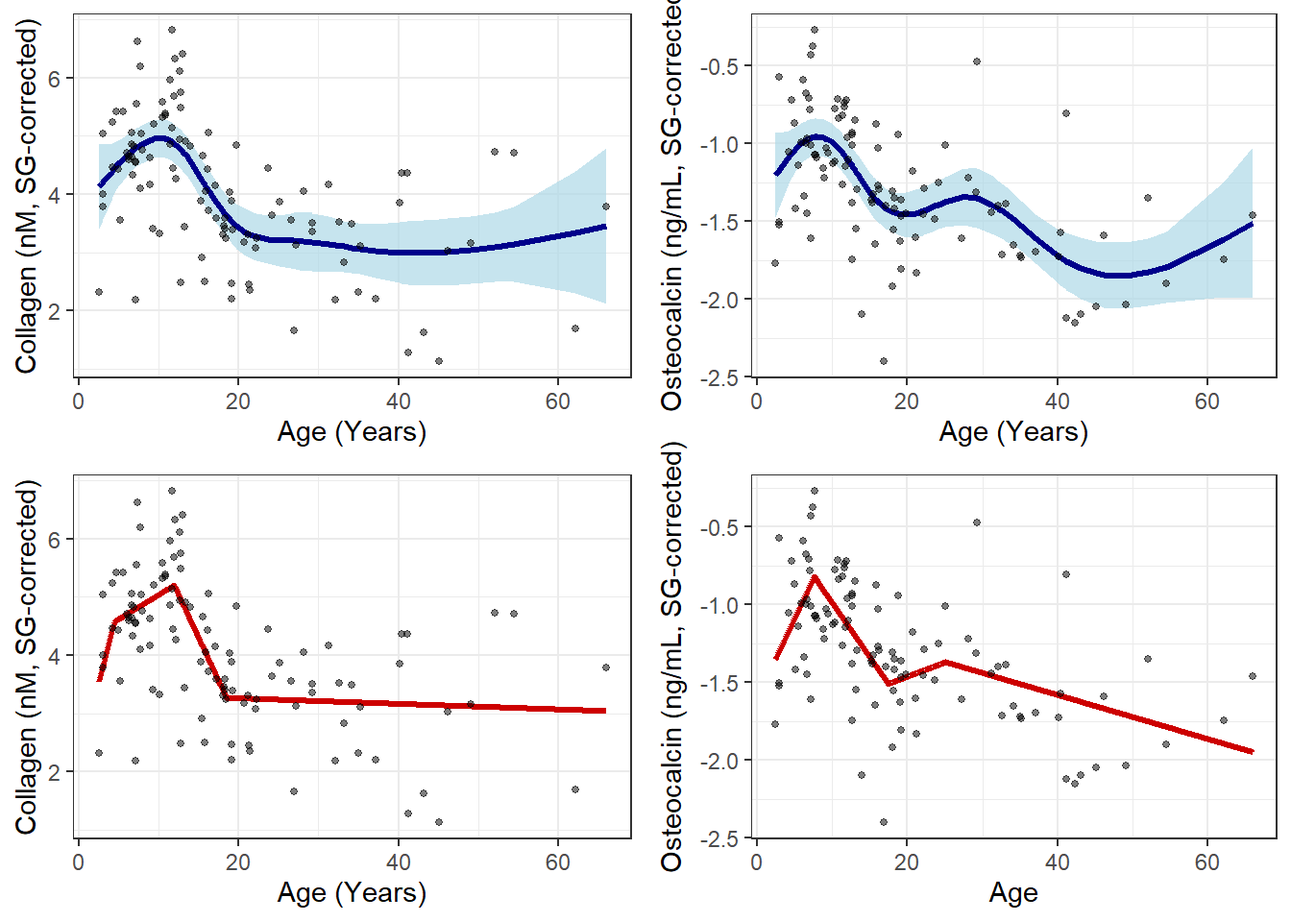
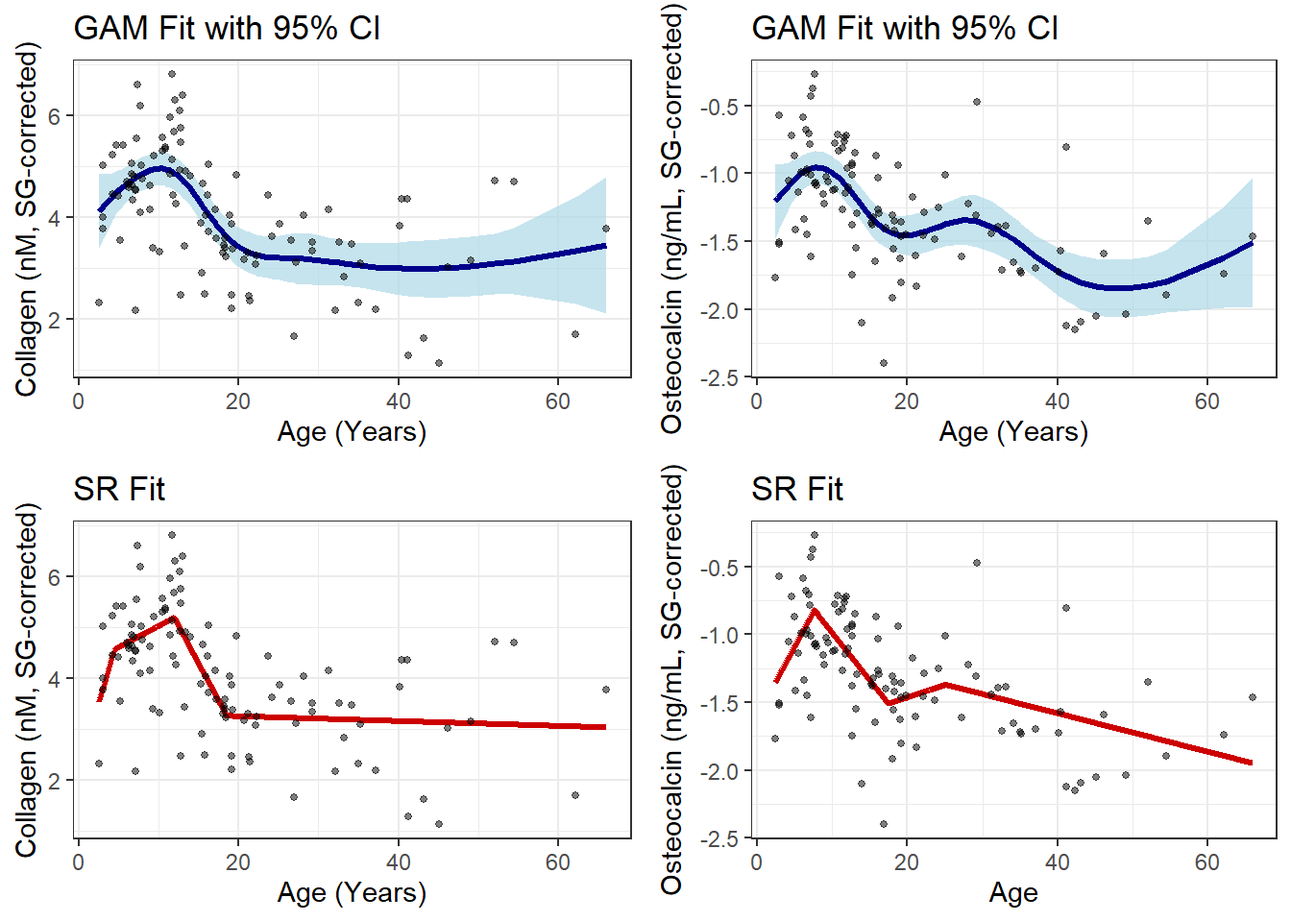
added figures from source paper

diff --git a/recreation.html b/recreation.html
@@ -436,70 +436,74 @@ OsteocalcinF  numeric,0</code></pre>
 <span id="cb28-9"><a href="#cb28-9" aria-hidden="true" tabindex="-1"></a>  <span class="fu">geom_point</span>(<span class="fu">aes</span>(<span class="at">y =</span> c_conT), <span class="at">alpha =</span> <span class="fl">0.5</span>, <span class="at">size =</span> <span class="dv">1</span>) <span class="sc">+</span></span>
 <span id="cb28-10"><a href="#cb28-10" aria-hidden="true" tabindex="-1"></a>  <span class="fu">labs</span>(</span>
 <span id="cb28-11"><a href="#cb28-11" aria-hidden="true" tabindex="-1"></a>    <span class="at">x =</span> <span class="st">"Age (Years)"</span>,</span>
-<span id="cb28-12"><a href="#cb28-12" aria-hidden="true" tabindex="-1"></a>    <span class="at">y =</span> <span class="st">"Collagen (nM, SG-corrected)"</span></span>
-<span id="cb28-13"><a href="#cb28-13" aria-hidden="true" tabindex="-1"></a>  ) <span class="sc">+</span></span>
-<span id="cb28-14"><a href="#cb28-14" aria-hidden="true" tabindex="-1"></a>  <span class="fu">theme</span>(</span>
-<span id="cb28-15"><a href="#cb28-15" aria-hidden="true" tabindex="-1"></a>    <span class="at">axis.title =</span> <span class="fu">element_text</span>(<span class="at">size =</span> <span class="dv">6</span>),</span>
-<span id="cb28-16"><a href="#cb28-16" aria-hidden="true" tabindex="-1"></a>    <span class="at">axis.text =</span> <span class="fu">element_text</span>(<span class="at">size =</span> <span class="dv">4</span>)</span>
-<span id="cb28-17"><a href="#cb28-17" aria-hidden="true" tabindex="-1"></a>  ) <span class="sc">+</span></span>
-<span id="cb28-18"><a href="#cb28-18" aria-hidden="true" tabindex="-1"></a>  <span class="fu">theme_bw</span>()</span>
-<span id="cb28-19"><a href="#cb28-19" aria-hidden="true" tabindex="-1"></a></span>
-<span id="cb28-20"><a href="#cb28-20" aria-hidden="true" tabindex="-1"></a>fitted_df <span class="ot">&lt;-</span> <span class="fu">fitted_values</span>(ogam_mf, <span class="at">data =</span> ostc_data, <span class="at">include_data =</span> <span class="cn">TRUE</span>, <span class="at">scale =</span> <span class="st">"response"</span>)</span>
-<span id="cb28-21"><a href="#cb28-21" aria-hidden="true" tabindex="-1"></a></span>
-<span id="cb28-22"><a href="#cb28-22" aria-hidden="true" tabindex="-1"></a>p.ogmf <span class="ot">&lt;-</span> <span class="fu">ggplot</span>(fitted_df, <span class="fu">aes</span>(<span class="at">x =</span> mean_age, <span class="at">y =</span> .fitted)) <span class="sc">+</span></span>
-<span id="cb28-23"><a href="#cb28-23" aria-hidden="true" tabindex="-1"></a>  <span class="fu">geom_ribbon</span>(<span class="fu">aes</span>(<span class="at">ymin =</span> .lower_ci, <span class="at">ymax =</span> .upper_ci), <span class="at">fill =</span> <span class="st">"lightblue"</span>, <span class="at">alpha =</span> <span class="fl">0.7</span>) <span class="sc">+</span></span>
-<span id="cb28-24"><a href="#cb28-24" aria-hidden="true" tabindex="-1"></a>  <span class="fu">geom_line</span>(<span class="at">color =</span> <span class="st">"blue4"</span>, <span class="at">linewidth =</span> <span class="fl">1.2</span>) <span class="sc">+</span></span>
-<span id="cb28-25"><a href="#cb28-25" aria-hidden="true" tabindex="-1"></a>  <span class="fu">geom_point</span>(<span class="fu">aes</span>(<span class="at">y =</span> o_conT), <span class="at">alpha =</span> <span class="fl">0.5</span>, <span class="at">size =</span> <span class="dv">1</span>) <span class="sc">+</span></span>
-<span id="cb28-26"><a href="#cb28-26" aria-hidden="true" tabindex="-1"></a>  <span class="fu">labs</span>(</span>
-<span id="cb28-27"><a href="#cb28-27" aria-hidden="true" tabindex="-1"></a>    <span class="at">x =</span> <span class="st">"Age (Years)"</span>,</span>
-<span id="cb28-28"><a href="#cb28-28" aria-hidden="true" tabindex="-1"></a>    <span class="at">y =</span> <span class="st">"Osteocalcin (ng/mL, SG-corrected)"</span></span>
-<span id="cb28-29"><a href="#cb28-29" aria-hidden="true" tabindex="-1"></a>  ) <span class="sc">+</span></span>
-<span id="cb28-30"><a href="#cb28-30" aria-hidden="true" tabindex="-1"></a>  <span class="fu">theme</span>(</span>
-<span id="cb28-31"><a href="#cb28-31" aria-hidden="true" tabindex="-1"></a>    <span class="at">axis.title =</span> <span class="fu">element_text</span>(<span class="at">size =</span> <span class="dv">6</span>),</span>
-<span id="cb28-32"><a href="#cb28-32" aria-hidden="true" tabindex="-1"></a>    <span class="at">axis.text =</span> <span class="fu">element_text</span>(<span class="at">size =</span> <span class="dv">4</span>)</span>
-<span id="cb28-33"><a href="#cb28-33" aria-hidden="true" tabindex="-1"></a>  ) <span class="sc">+</span></span>
-<span id="cb28-34"><a href="#cb28-34" aria-hidden="true" tabindex="-1"></a>  <span class="fu">theme_bw</span>()</span>
-<span id="cb28-35"><a href="#cb28-35" aria-hidden="true" tabindex="-1"></a></span>
-<span id="cb28-36"><a href="#cb28-36" aria-hidden="true" tabindex="-1"></a><span class="co"># SRs</span></span>
+<span id="cb28-12"><a href="#cb28-12" aria-hidden="true" tabindex="-1"></a>    <span class="at">y =</span> <span class="st">"Collagen (nM, SG-corrected)"</span>,</span>
+<span id="cb28-13"><a href="#cb28-13" aria-hidden="true" tabindex="-1"></a>    <span class="at">title =</span> <span class="st">"GAM Fit with 95% CI"</span></span>
+<span id="cb28-14"><a href="#cb28-14" aria-hidden="true" tabindex="-1"></a>  ) <span class="sc">+</span></span>
+<span id="cb28-15"><a href="#cb28-15" aria-hidden="true" tabindex="-1"></a>  <span class="fu">theme</span>(</span>
+<span id="cb28-16"><a href="#cb28-16" aria-hidden="true" tabindex="-1"></a>    <span class="at">axis.title =</span> <span class="fu">element_text</span>(<span class="at">size =</span> <span class="dv">6</span>),</span>
+<span id="cb28-17"><a href="#cb28-17" aria-hidden="true" tabindex="-1"></a>    <span class="at">axis.text =</span> <span class="fu">element_text</span>(<span class="at">size =</span> <span class="dv">4</span>)</span>
+<span id="cb28-18"><a href="#cb28-18" aria-hidden="true" tabindex="-1"></a>  ) <span class="sc">+</span></span>
+<span id="cb28-19"><a href="#cb28-19" aria-hidden="true" tabindex="-1"></a>  <span class="fu">theme_bw</span>()</span>
+<span id="cb28-20"><a href="#cb28-20" aria-hidden="true" tabindex="-1"></a></span>
+<span id="cb28-21"><a href="#cb28-21" aria-hidden="true" tabindex="-1"></a>fitted_df <span class="ot">&lt;-</span> <span class="fu">fitted_values</span>(ogam_mf, <span class="at">data =</span> ostc_data, <span class="at">include_data =</span> <span class="cn">TRUE</span>, <span class="at">scale =</span> <span class="st">"response"</span>)</span>
+<span id="cb28-22"><a href="#cb28-22" aria-hidden="true" tabindex="-1"></a></span>
+<span id="cb28-23"><a href="#cb28-23" aria-hidden="true" tabindex="-1"></a>p.ogmf <span class="ot">&lt;-</span> <span class="fu">ggplot</span>(fitted_df, <span class="fu">aes</span>(<span class="at">x =</span> mean_age, <span class="at">y =</span> .fitted)) <span class="sc">+</span></span>
+<span id="cb28-24"><a href="#cb28-24" aria-hidden="true" tabindex="-1"></a>  <span class="fu">geom_ribbon</span>(<span class="fu">aes</span>(<span class="at">ymin =</span> .lower_ci, <span class="at">ymax =</span> .upper_ci), <span class="at">fill =</span> <span class="st">"lightblue"</span>, <span class="at">alpha =</span> <span class="fl">0.7</span>) <span class="sc">+</span></span>
+<span id="cb28-25"><a href="#cb28-25" aria-hidden="true" tabindex="-1"></a>  <span class="fu">geom_line</span>(<span class="at">color =</span> <span class="st">"blue4"</span>, <span class="at">linewidth =</span> <span class="fl">1.2</span>) <span class="sc">+</span></span>
+<span id="cb28-26"><a href="#cb28-26" aria-hidden="true" tabindex="-1"></a>  <span class="fu">geom_point</span>(<span class="fu">aes</span>(<span class="at">y =</span> o_conT), <span class="at">alpha =</span> <span class="fl">0.5</span>, <span class="at">size =</span> <span class="dv">1</span>) <span class="sc">+</span></span>
+<span id="cb28-27"><a href="#cb28-27" aria-hidden="true" tabindex="-1"></a>  <span class="fu">labs</span>(</span>
+<span id="cb28-28"><a href="#cb28-28" aria-hidden="true" tabindex="-1"></a>    <span class="at">x =</span> <span class="st">"Age (Years)"</span>,</span>
+<span id="cb28-29"><a href="#cb28-29" aria-hidden="true" tabindex="-1"></a>    <span class="at">y =</span> <span class="st">"Osteocalcin (ng/mL, SG-corrected)"</span>,</span>
+<span id="cb28-30"><a href="#cb28-30" aria-hidden="true" tabindex="-1"></a>    <span class="at">title =</span> <span class="st">"GAM Fit with 95% CI"</span></span>
+<span id="cb28-31"><a href="#cb28-31" aria-hidden="true" tabindex="-1"></a>  ) <span class="sc">+</span></span>
+<span id="cb28-32"><a href="#cb28-32" aria-hidden="true" tabindex="-1"></a>  <span class="fu">theme</span>(</span>
+<span id="cb28-33"><a href="#cb28-33" aria-hidden="true" tabindex="-1"></a>    <span class="at">axis.title =</span> <span class="fu">element_text</span>(<span class="at">size =</span> <span class="dv">6</span>),</span>
+<span id="cb28-34"><a href="#cb28-34" aria-hidden="true" tabindex="-1"></a>    <span class="at">axis.text =</span> <span class="fu">element_text</span>(<span class="at">size =</span> <span class="dv">4</span>)</span>
+<span id="cb28-35"><a href="#cb28-35" aria-hidden="true" tabindex="-1"></a>  ) <span class="sc">+</span></span>
+<span id="cb28-36"><a href="#cb28-36" aria-hidden="true" tabindex="-1"></a>  <span class="fu">theme_bw</span>()</span>
 <span id="cb28-37"><a href="#cb28-37" aria-hidden="true" tabindex="-1"></a></span>
-<span id="cb28-38"><a href="#cb28-38" aria-hidden="true" tabindex="-1"></a><span class="co"># generate prediction data</span></span>
-<span id="cb28-39"><a href="#cb28-39" aria-hidden="true" tabindex="-1"></a>newdata <span class="ot">&lt;-</span> <span class="fu">data.frame</span>(<span class="at">mean_age =</span> <span class="fu">seq</span>(<span class="fu">min</span>(coll_data<span class="sc">$</span>mean_age),</span>
-<span id="cb28-40"><a href="#cb28-40" aria-hidden="true" tabindex="-1"></a>                                     <span class="fu">max</span>(coll_data<span class="sc">$</span>mean_age),</span>
-<span id="cb28-41"><a href="#cb28-41" aria-hidden="true" tabindex="-1"></a>                                     <span class="at">length.out =</span> <span class="dv">1000</span>))</span>
-<span id="cb28-42"><a href="#cb28-42" aria-hidden="true" tabindex="-1"></a>b <span class="ot">&lt;-</span> <span class="fu">predict</span>(csr_mf, <span class="at">newdata =</span> newdata, <span class="at">interval =</span> <span class="st">"confidence"</span>)</span>
-<span id="cb28-43"><a href="#cb28-43" aria-hidden="true" tabindex="-1"></a>preds <span class="ot">&lt;-</span> <span class="fu">cbind</span>(newdata, <span class="fu">as.data.frame</span>(b))</span>
-<span id="cb28-44"><a href="#cb28-44" aria-hidden="true" tabindex="-1"></a></span>
-<span id="cb28-45"><a href="#cb28-45" aria-hidden="true" tabindex="-1"></a>p.csmf <span class="ot">&lt;-</span> <span class="fu">ggplot</span>(coll_data, <span class="fu">aes</span>(<span class="at">x =</span> mean_age, <span class="at">y =</span> c_conT)) <span class="sc">+</span></span>
-<span id="cb28-46"><a href="#cb28-46" aria-hidden="true" tabindex="-1"></a>  <span class="fu">geom_line</span>(<span class="at">data =</span> preds, <span class="fu">aes</span>(<span class="at">y =</span> fit), <span class="at">color =</span> <span class="st">"red3"</span>, <span class="at">linewidth =</span> <span class="fl">1.2</span>) <span class="sc">+</span></span>
-<span id="cb28-47"><a href="#cb28-47" aria-hidden="true" tabindex="-1"></a>  <span class="fu">geom_point</span>(<span class="at">alpha =</span> <span class="fl">0.5</span>, <span class="at">size =</span> <span class="dv">1</span>) <span class="sc">+</span></span>
-<span id="cb28-48"><a href="#cb28-48" aria-hidden="true" tabindex="-1"></a>  <span class="fu">labs</span>(</span>
-<span id="cb28-49"><a href="#cb28-49" aria-hidden="true" tabindex="-1"></a>    <span class="at">x =</span> <span class="st">"Age (Years)"</span>,</span>
-<span id="cb28-50"><a href="#cb28-50" aria-hidden="true" tabindex="-1"></a>    <span class="at">y =</span> <span class="st">"Collagen (nM, SG-corrected)"</span>,</span>
-<span id="cb28-51"><a href="#cb28-51" aria-hidden="true" tabindex="-1"></a>  ) <span class="sc">+</span></span>
-<span id="cb28-52"><a href="#cb28-52" aria-hidden="true" tabindex="-1"></a>  <span class="fu">theme</span>(</span>
-<span id="cb28-53"><a href="#cb28-53" aria-hidden="true" tabindex="-1"></a>    <span class="at">axis.title =</span> <span class="fu">element_text</span>(<span class="at">size =</span> <span class="dv">6</span>),</span>
-<span id="cb28-54"><a href="#cb28-54" aria-hidden="true" tabindex="-1"></a>    <span class="at">axis.text =</span> <span class="fu">element_text</span>(<span class="at">size =</span> <span class="dv">4</span>)</span>
-<span id="cb28-55"><a href="#cb28-55" aria-hidden="true" tabindex="-1"></a>  ) <span class="sc">+</span></span>
-<span id="cb28-56"><a href="#cb28-56" aria-hidden="true" tabindex="-1"></a>  <span class="fu">theme_bw</span>()</span>
-<span id="cb28-57"><a href="#cb28-57" aria-hidden="true" tabindex="-1"></a></span>
-<span id="cb28-58"><a href="#cb28-58" aria-hidden="true" tabindex="-1"></a>b <span class="ot">&lt;-</span> <span class="fu">predict</span>(osr_mf, <span class="at">newdata =</span> newdata, <span class="at">interval =</span> <span class="st">"confidence"</span>)</span>
-<span id="cb28-59"><a href="#cb28-59" aria-hidden="true" tabindex="-1"></a>preds <span class="ot">&lt;-</span> <span class="fu">cbind</span>(newdata, <span class="fu">as.data.frame</span>(b))</span>
+<span id="cb28-38"><a href="#cb28-38" aria-hidden="true" tabindex="-1"></a><span class="co"># SRs</span></span>
+<span id="cb28-39"><a href="#cb28-39" aria-hidden="true" tabindex="-1"></a></span>
+<span id="cb28-40"><a href="#cb28-40" aria-hidden="true" tabindex="-1"></a><span class="co"># generate prediction data</span></span>
+<span id="cb28-41"><a href="#cb28-41" aria-hidden="true" tabindex="-1"></a>newdata <span class="ot">&lt;-</span> <span class="fu">data.frame</span>(<span class="at">mean_age =</span> <span class="fu">seq</span>(<span class="fu">min</span>(coll_data<span class="sc">$</span>mean_age),</span>
+<span id="cb28-42"><a href="#cb28-42" aria-hidden="true" tabindex="-1"></a>                                     <span class="fu">max</span>(coll_data<span class="sc">$</span>mean_age),</span>
+<span id="cb28-43"><a href="#cb28-43" aria-hidden="true" tabindex="-1"></a>                                     <span class="at">length.out =</span> <span class="dv">1000</span>))</span>
+<span id="cb28-44"><a href="#cb28-44" aria-hidden="true" tabindex="-1"></a>b <span class="ot">&lt;-</span> <span class="fu">predict</span>(csr_mf, <span class="at">newdata =</span> newdata, <span class="at">interval =</span> <span class="st">"confidence"</span>)</span>
+<span id="cb28-45"><a href="#cb28-45" aria-hidden="true" tabindex="-1"></a>preds <span class="ot">&lt;-</span> <span class="fu">cbind</span>(newdata, <span class="fu">as.data.frame</span>(b))</span>
+<span id="cb28-46"><a href="#cb28-46" aria-hidden="true" tabindex="-1"></a></span>
+<span id="cb28-47"><a href="#cb28-47" aria-hidden="true" tabindex="-1"></a>p.csmf <span class="ot">&lt;-</span> <span class="fu">ggplot</span>(coll_data, <span class="fu">aes</span>(<span class="at">x =</span> mean_age, <span class="at">y =</span> c_conT)) <span class="sc">+</span></span>
+<span id="cb28-48"><a href="#cb28-48" aria-hidden="true" tabindex="-1"></a>  <span class="fu">geom_line</span>(<span class="at">data =</span> preds, <span class="fu">aes</span>(<span class="at">y =</span> fit), <span class="at">color =</span> <span class="st">"red3"</span>, <span class="at">linewidth =</span> <span class="fl">1.2</span>) <span class="sc">+</span></span>
+<span id="cb28-49"><a href="#cb28-49" aria-hidden="true" tabindex="-1"></a>  <span class="fu">geom_point</span>(<span class="at">alpha =</span> <span class="fl">0.5</span>, <span class="at">size =</span> <span class="dv">1</span>) <span class="sc">+</span></span>
+<span id="cb28-50"><a href="#cb28-50" aria-hidden="true" tabindex="-1"></a>  <span class="fu">labs</span>(</span>
+<span id="cb28-51"><a href="#cb28-51" aria-hidden="true" tabindex="-1"></a>    <span class="at">x =</span> <span class="st">"Age (Years)"</span>,</span>
+<span id="cb28-52"><a href="#cb28-52" aria-hidden="true" tabindex="-1"></a>    <span class="at">y =</span> <span class="st">"Collagen (nM, SG-corrected)"</span>,</span>
+<span id="cb28-53"><a href="#cb28-53" aria-hidden="true" tabindex="-1"></a>    <span class="at">title =</span> <span class="st">"SR Fit"</span></span>
+<span id="cb28-54"><a href="#cb28-54" aria-hidden="true" tabindex="-1"></a>  ) <span class="sc">+</span></span>
+<span id="cb28-55"><a href="#cb28-55" aria-hidden="true" tabindex="-1"></a>  <span class="fu">theme</span>(</span>
+<span id="cb28-56"><a href="#cb28-56" aria-hidden="true" tabindex="-1"></a>    <span class="at">axis.title =</span> <span class="fu">element_text</span>(<span class="at">size =</span> <span class="dv">6</span>),</span>
+<span id="cb28-57"><a href="#cb28-57" aria-hidden="true" tabindex="-1"></a>    <span class="at">axis.text =</span> <span class="fu">element_text</span>(<span class="at">size =</span> <span class="dv">4</span>)</span>
+<span id="cb28-58"><a href="#cb28-58" aria-hidden="true" tabindex="-1"></a>  ) <span class="sc">+</span></span>
+<span id="cb28-59"><a href="#cb28-59" aria-hidden="true" tabindex="-1"></a>  <span class="fu">theme_bw</span>()</span>
 <span id="cb28-60"><a href="#cb28-60" aria-hidden="true" tabindex="-1"></a></span>
-<span id="cb28-61"><a href="#cb28-61" aria-hidden="true" tabindex="-1"></a>p.osmf <span class="ot">&lt;-</span> <span class="fu">ggplot</span>(fitted_df, <span class="fu">aes</span>(<span class="at">x =</span> mean_age, <span class="at">y =</span> o_conT)) <span class="sc">+</span></span>
-<span id="cb28-62"><a href="#cb28-62" aria-hidden="true" tabindex="-1"></a>  <span class="fu">geom_line</span>(<span class="at">data =</span> preds, <span class="fu">aes</span>(<span class="at">y =</span> fit), <span class="at">color =</span> <span class="st">"red3"</span>, <span class="at">linewidth =</span> <span class="fl">1.2</span>) <span class="sc">+</span></span>
-<span id="cb28-63"><a href="#cb28-63" aria-hidden="true" tabindex="-1"></a>  <span class="fu">geom_point</span>(<span class="at">alpha =</span> <span class="fl">0.5</span>, <span class="at">size =</span> <span class="dv">1</span>) <span class="sc">+</span></span>
-<span id="cb28-64"><a href="#cb28-64" aria-hidden="true" tabindex="-1"></a>  <span class="fu">labs</span>(</span>
-<span id="cb28-65"><a href="#cb28-65" aria-hidden="true" tabindex="-1"></a>    <span class="at">x =</span> <span class="st">"Age"</span>,</span>
-<span id="cb28-66"><a href="#cb28-66" aria-hidden="true" tabindex="-1"></a>    <span class="at">y =</span> <span class="st">"Osteocalcin (ng/mL, SG-corrected)"</span>,</span>
-<span id="cb28-67"><a href="#cb28-67" aria-hidden="true" tabindex="-1"></a>  ) <span class="sc">+</span></span>
-<span id="cb28-68"><a href="#cb28-68" aria-hidden="true" tabindex="-1"></a>  <span class="fu">theme</span>(</span>
-<span id="cb28-69"><a href="#cb28-69" aria-hidden="true" tabindex="-1"></a>    <span class="at">axis.title =</span> <span class="fu">element_text</span>(<span class="at">size =</span> <span class="dv">6</span>),</span>
-<span id="cb28-70"><a href="#cb28-70" aria-hidden="true" tabindex="-1"></a>    <span class="at">axis.text =</span> <span class="fu">element_text</span>(<span class="at">size =</span> <span class="dv">4</span>)</span>
+<span id="cb28-61"><a href="#cb28-61" aria-hidden="true" tabindex="-1"></a>b <span class="ot">&lt;-</span> <span class="fu">predict</span>(osr_mf, <span class="at">newdata =</span> newdata, <span class="at">interval =</span> <span class="st">"confidence"</span>)</span>
+<span id="cb28-62"><a href="#cb28-62" aria-hidden="true" tabindex="-1"></a>preds <span class="ot">&lt;-</span> <span class="fu">cbind</span>(newdata, <span class="fu">as.data.frame</span>(b))</span>
+<span id="cb28-63"><a href="#cb28-63" aria-hidden="true" tabindex="-1"></a></span>
+<span id="cb28-64"><a href="#cb28-64" aria-hidden="true" tabindex="-1"></a>p.osmf <span class="ot">&lt;-</span> <span class="fu">ggplot</span>(fitted_df, <span class="fu">aes</span>(<span class="at">x =</span> mean_age, <span class="at">y =</span> o_conT)) <span class="sc">+</span></span>
+<span id="cb28-65"><a href="#cb28-65" aria-hidden="true" tabindex="-1"></a>  <span class="fu">geom_line</span>(<span class="at">data =</span> preds, <span class="fu">aes</span>(<span class="at">y =</span> fit), <span class="at">color =</span> <span class="st">"red3"</span>, <span class="at">linewidth =</span> <span class="fl">1.2</span>) <span class="sc">+</span></span>
+<span id="cb28-66"><a href="#cb28-66" aria-hidden="true" tabindex="-1"></a>  <span class="fu">geom_point</span>(<span class="at">alpha =</span> <span class="fl">0.5</span>, <span class="at">size =</span> <span class="dv">1</span>) <span class="sc">+</span></span>
+<span id="cb28-67"><a href="#cb28-67" aria-hidden="true" tabindex="-1"></a>  <span class="fu">labs</span>(</span>
+<span id="cb28-68"><a href="#cb28-68" aria-hidden="true" tabindex="-1"></a>    <span class="at">x =</span> <span class="st">"Age"</span>,</span>
+<span id="cb28-69"><a href="#cb28-69" aria-hidden="true" tabindex="-1"></a>    <span class="at">y =</span> <span class="st">"Osteocalcin (ng/mL, SG-corrected)"</span>,</span>
+<span id="cb28-70"><a href="#cb28-70" aria-hidden="true" tabindex="-1"></a>    <span class="at">title =</span> <span class="st">"SR Fit"</span></span>
 <span id="cb28-71"><a href="#cb28-71" aria-hidden="true" tabindex="-1"></a>  ) <span class="sc">+</span></span>
-<span id="cb28-72"><a href="#cb28-72" aria-hidden="true" tabindex="-1"></a>  <span class="fu">theme_bw</span>()</span>
-<span id="cb28-73"><a href="#cb28-73" aria-hidden="true" tabindex="-1"></a></span>
-<span id="cb28-74"><a href="#cb28-74" aria-hidden="true" tabindex="-1"></a></span>
-<span id="cb28-75"><a href="#cb28-75" aria-hidden="true" tabindex="-1"></a><span class="fu">ggarrange</span>(p.cgmf, p.ogmf, p.csmf, p.osmf, <span class="at">nrow =</span> <span class="dv">2</span>, <span class="at">ncol =</span> <span class="dv">2</span>)</span></code><button title="Copy to Clipboard" class="code-copy-button"><i class="bi"></i></button></pre></div>
+<span id="cb28-72"><a href="#cb28-72" aria-hidden="true" tabindex="-1"></a>  <span class="fu">theme</span>(</span>
+<span id="cb28-73"><a href="#cb28-73" aria-hidden="true" tabindex="-1"></a>    <span class="at">axis.title =</span> <span class="fu">element_text</span>(<span class="at">size =</span> <span class="dv">6</span>),</span>
+<span id="cb28-74"><a href="#cb28-74" aria-hidden="true" tabindex="-1"></a>    <span class="at">axis.text =</span> <span class="fu">element_text</span>(<span class="at">size =</span> <span class="dv">4</span>)</span>
+<span id="cb28-75"><a href="#cb28-75" aria-hidden="true" tabindex="-1"></a>  ) <span class="sc">+</span></span>
+<span id="cb28-76"><a href="#cb28-76" aria-hidden="true" tabindex="-1"></a>  <span class="fu">theme_bw</span>()</span>
+<span id="cb28-77"><a href="#cb28-77" aria-hidden="true" tabindex="-1"></a></span>
+<span id="cb28-78"><a href="#cb28-78" aria-hidden="true" tabindex="-1"></a></span>
+<span id="cb28-79"><a href="#cb28-79" aria-hidden="true" tabindex="-1"></a><span class="fu">ggarrange</span>(p.cgmf, p.ogmf, p.csmf, p.osmf, <span class="at">nrow =</span> <span class="dv">2</span>, <span class="at">ncol =</span> <span class="dv">2</span>)</span></code><button title="Copy to Clipboard" class="code-copy-button"><i class="bi"></i></button></pre></div>
 </details>
 <div class="cell-output-display">
 <div>
@@ -508,6 +512,13 @@ OsteocalcinF  numeric,0</code></pre>
 </figure>
 </div>
 </div>
+</div>
+<p>Comparing my results to those from the study</p>
+<div class="quarto-figure quarto-figure-center">
+<figure class="figure">
+<p><img src="img/figure1.png" class="img-fluid figure-img"></p>
+<figcaption>Biomarker levels in chimpanzees, including males and females. Collagen is an indicator of bone resorption and osteocalcin is an indicator of bone formation. We transformed collagen and osteocalcin values to approximate a normal residual distribution (Box and Cox, 1964). The solid blue lines (upper panels) represent the generalized additive models with confidence intervals as dashed lines; red lines (lower panels) represent segmented regressions. Dotted vertical lines are placed at age 5 years (end of infancy) and age 10 years (around early adolescence) to aid interpretation. (Sandel et al.&nbsp;2023 Figure 1)</figcaption>
+</figure>
 </div>
 </section>
 <section id="results-for-males-only" class="level4">
@@ -524,7 +535,7 @@ OsteocalcinF  numeric,0</code></pre>
 <span id="cb29-7"><a href="#cb29-7" aria-hidden="true" tabindex="-1"></a>  <span class="fu">geom_point</span>(<span class="fu">aes</span>(<span class="at">y =</span> c_conT), <span class="at">alpha =</span> <span class="fl">0.5</span>, <span class="at">size =</span> <span class="dv">1</span>) <span class="sc">+</span></span>
 <span id="cb29-8"><a href="#cb29-8" aria-hidden="true" tabindex="-1"></a>  <span class="fu">labs</span>(</span>
 <span id="cb29-9"><a href="#cb29-9" aria-hidden="true" tabindex="-1"></a>    <span class="at">x =</span> <span class="st">"Age"</span>,</span>
-<span id="cb29-10"><a href="#cb29-10" aria-hidden="true" tabindex="-1"></a>    <span class="at">y =</span> <span class="st">"Collagen concentration (nM, SG-corrected)"</span>,</span>
+<span id="cb29-10"><a href="#cb29-10" aria-hidden="true" tabindex="-1"></a>    <span class="at">y =</span> <span class="st">"Collagen (nM, SG-corrected)"</span>,</span>
 <span id="cb29-11"><a href="#cb29-11" aria-hidden="true" tabindex="-1"></a>    <span class="at">title =</span> <span class="st">"GAM Fit with 95% CI"</span></span>
 <span id="cb29-12"><a href="#cb29-12" aria-hidden="true" tabindex="-1"></a>  ) <span class="sc">+</span></span>
 <span id="cb29-13"><a href="#cb29-13" aria-hidden="true" tabindex="-1"></a>  <span class="fu">theme_bw</span>()</span>
@@ -537,7 +548,7 @@ OsteocalcinF  numeric,0</code></pre>
 <span id="cb29-20"><a href="#cb29-20" aria-hidden="true" tabindex="-1"></a>  <span class="fu">geom_point</span>(<span class="fu">aes</span>(<span class="at">y =</span> o_conT), <span class="at">alpha =</span> <span class="fl">0.5</span>, <span class="at">size =</span> <span class="dv">1</span>) <span class="sc">+</span></span>
 <span id="cb29-21"><a href="#cb29-21" aria-hidden="true" tabindex="-1"></a>  <span class="fu">labs</span>(</span>
 <span id="cb29-22"><a href="#cb29-22" aria-hidden="true" tabindex="-1"></a>    <span class="at">x =</span> <span class="st">"Age"</span>,</span>
-<span id="cb29-23"><a href="#cb29-23" aria-hidden="true" tabindex="-1"></a>    <span class="at">y =</span> <span class="st">"Osteocalcin concentration (ng/mL, SG-corrected)"</span>,</span>
+<span id="cb29-23"><a href="#cb29-23" aria-hidden="true" tabindex="-1"></a>    <span class="at">y =</span> <span class="st">"Osteocalcin (ng/mL, SG-corrected)"</span>,</span>
 <span id="cb29-24"><a href="#cb29-24" aria-hidden="true" tabindex="-1"></a>    <span class="at">title =</span> <span class="st">"GAM Fit with 95% CI"</span></span>
 <span id="cb29-25"><a href="#cb29-25" aria-hidden="true" tabindex="-1"></a>  ) <span class="sc">+</span></span>
 <span id="cb29-26"><a href="#cb29-26" aria-hidden="true" tabindex="-1"></a>  <span class="fu">theme_bw</span>()</span>
@@ -586,6 +597,12 @@ OsteocalcinF  numeric,0</code></pre>
 </div>
 </div>
 </div>
+<div class="quarto-figure quarto-figure-left">
+<figure class="figure">
+<p><img src="img/figure2.png" class="img-fluid figure-img"></p>
+<figcaption>Biomarker levels in male chimpanzees. We transformed collagen and osteocalcin values to approximate a normal residual distribution. The solid blue lines (upper panels) represent the generalized additive models (GAMs) with confidence intervals as dashed lines; red lines (bottom panels) represent segmented regressions. Among male chimpanzees, GAMs and segmented regressions indicate peaks of both biomarkers in early adolescence (9.4–10.8 years). Dotted vertical lines are placed at age 5 years (end of infancy) and age 10 years (around early adolescence) to aid interpretation</figcaption>
+</figure>
+</div>
 </section>
 <section id="results-for-females-only" class="level4">
 <h4 class="anchored" data-anchor-id="results-for-females-only">Results for Females Only</h4>
@@ -601,7 +618,7 @@ OsteocalcinF  numeric,0</code></pre>
 <span id="cb30-7"><a href="#cb30-7" aria-hidden="true" tabindex="-1"></a>  <span class="fu">geom_point</span>(<span class="fu">aes</span>(<span class="at">y =</span> c_conT), <span class="at">alpha =</span> <span class="fl">0.5</span>, <span class="at">size =</span> <span class="dv">1</span>) <span class="sc">+</span></span>
 <span id="cb30-8"><a href="#cb30-8" aria-hidden="true" tabindex="-1"></a>  <span class="fu">labs</span>(</span>
 <span id="cb30-9"><a href="#cb30-9" aria-hidden="true" tabindex="-1"></a>    <span class="at">x =</span> <span class="st">"Age"</span>,</span>
-<span id="cb30-10"><a href="#cb30-10" aria-hidden="true" tabindex="-1"></a>    <span class="at">y =</span> <span class="st">"Collagen concentration (nM, SG-corrected)"</span>,</span>
+<span id="cb30-10"><a href="#cb30-10" aria-hidden="true" tabindex="-1"></a>    <span class="at">y =</span> <span class="st">"Collagen (nM, SG-corrected)"</span>,</span>
 <span id="cb30-11"><a href="#cb30-11" aria-hidden="true" tabindex="-1"></a>    <span class="at">title =</span> <span class="st">"GAM Fit with 95% CI, Females"</span></span>
 <span id="cb30-12"><a href="#cb30-12" aria-hidden="true" tabindex="-1"></a>  ) <span class="sc">+</span></span>
 <span id="cb30-13"><a href="#cb30-13" aria-hidden="true" tabindex="-1"></a>  <span class="fu">theme_bw</span>()</span>
@@ -614,7 +631,7 @@ OsteocalcinF  numeric,0</code></pre>
 <span id="cb30-20"><a href="#cb30-20" aria-hidden="true" tabindex="-1"></a>  <span class="fu">geom_point</span>(<span class="fu">aes</span>(<span class="at">y =</span> o_conT), <span class="at">alpha =</span> <span class="fl">0.5</span>, <span class="at">size =</span> <span class="dv">1</span>) <span class="sc">+</span></span>
 <span id="cb30-21"><a href="#cb30-21" aria-hidden="true" tabindex="-1"></a>  <span class="fu">labs</span>(</span>
 <span id="cb30-22"><a href="#cb30-22" aria-hidden="true" tabindex="-1"></a>    <span class="at">x =</span> <span class="st">"Age"</span>,</span>
-<span id="cb30-23"><a href="#cb30-23" aria-hidden="true" tabindex="-1"></a>    <span class="at">y =</span> <span class="st">"Osteocalcin concentration (ng/mL, SG-corrected)"</span>,</span>
+<span id="cb30-23"><a href="#cb30-23" aria-hidden="true" tabindex="-1"></a>    <span class="at">y =</span> <span class="st">"Osteocalcin (ng/mL, SG-corrected)"</span>,</span>
 <span id="cb30-24"><a href="#cb30-24" aria-hidden="true" tabindex="-1"></a>    <span class="at">title =</span> <span class="st">"GAM Fit with 95% CI"</span></span>
 <span id="cb30-25"><a href="#cb30-25" aria-hidden="true" tabindex="-1"></a>  ) <span class="sc">+</span></span>
 <span id="cb30-26"><a href="#cb30-26" aria-hidden="true" tabindex="-1"></a>  <span class="fu">theme_bw</span>()</span>
@@ -628,30 +645,32 @@ OsteocalcinF  numeric,0</code></pre>
 <span id="cb30-34"><a href="#cb30-34" aria-hidden="true" tabindex="-1"></a>  <span class="fu">labs</span>(</span>
 <span id="cb30-35"><a href="#cb30-35" aria-hidden="true" tabindex="-1"></a>    <span class="at">x =</span> <span class="st">"Age (Years)"</span>,</span>
 <span id="cb30-36"><a href="#cb30-36" aria-hidden="true" tabindex="-1"></a>    <span class="at">y =</span> <span class="st">"Collagen (nM, SG-corrected)"</span>,</span>
-<span id="cb30-37"><a href="#cb30-37" aria-hidden="true" tabindex="-1"></a>  ) <span class="sc">+</span></span>
-<span id="cb30-38"><a href="#cb30-38" aria-hidden="true" tabindex="-1"></a>  <span class="fu">theme</span>(</span>
-<span id="cb30-39"><a href="#cb30-39" aria-hidden="true" tabindex="-1"></a>    <span class="at">axis.title =</span> <span class="fu">element_text</span>(<span class="at">size =</span> <span class="dv">6</span>),</span>
-<span id="cb30-40"><a href="#cb30-40" aria-hidden="true" tabindex="-1"></a>    <span class="at">axis.text =</span> <span class="fu">element_text</span>(<span class="at">size =</span> <span class="dv">4</span>)</span>
-<span id="cb30-41"><a href="#cb30-41" aria-hidden="true" tabindex="-1"></a>  ) <span class="sc">+</span></span>
-<span id="cb30-42"><a href="#cb30-42" aria-hidden="true" tabindex="-1"></a>  <span class="fu">theme_bw</span>()</span>
-<span id="cb30-43"><a href="#cb30-43" aria-hidden="true" tabindex="-1"></a></span>
-<span id="cb30-44"><a href="#cb30-44" aria-hidden="true" tabindex="-1"></a>b <span class="ot">&lt;-</span> <span class="fu">predict</span>(osr_f, <span class="at">newdata =</span> newdata, <span class="at">interval =</span> <span class="st">"confidence"</span>)</span>
-<span id="cb30-45"><a href="#cb30-45" aria-hidden="true" tabindex="-1"></a>preds <span class="ot">&lt;-</span> <span class="fu">cbind</span>(newdata, <span class="fu">as.data.frame</span>(b))</span>
-<span id="cb30-46"><a href="#cb30-46" aria-hidden="true" tabindex="-1"></a></span>
-<span id="cb30-47"><a href="#cb30-47" aria-hidden="true" tabindex="-1"></a>p.osf <span class="ot">&lt;-</span> <span class="fu">ggplot</span>(fitted_df, <span class="fu">aes</span>(<span class="at">x =</span> mean_age, <span class="at">y =</span> o_conT)) <span class="sc">+</span></span>
-<span id="cb30-48"><a href="#cb30-48" aria-hidden="true" tabindex="-1"></a>  <span class="fu">geom_line</span>(<span class="at">data =</span> preds, <span class="fu">aes</span>(<span class="at">y =</span> fit), <span class="at">color =</span> <span class="st">"red3"</span>, <span class="at">linewidth =</span> <span class="fl">1.2</span>) <span class="sc">+</span></span>
-<span id="cb30-49"><a href="#cb30-49" aria-hidden="true" tabindex="-1"></a>  <span class="fu">geom_point</span>(<span class="at">alpha =</span> <span class="fl">0.5</span>, <span class="at">size =</span> <span class="dv">1</span>) <span class="sc">+</span></span>
-<span id="cb30-50"><a href="#cb30-50" aria-hidden="true" tabindex="-1"></a>  <span class="fu">labs</span>(</span>
-<span id="cb30-51"><a href="#cb30-51" aria-hidden="true" tabindex="-1"></a>    <span class="at">x =</span> <span class="st">"Age"</span>,</span>
-<span id="cb30-52"><a href="#cb30-52" aria-hidden="true" tabindex="-1"></a>    <span class="at">y =</span> <span class="st">"Osteocalcin (ng/mL, SG-corrected)"</span>,</span>
-<span id="cb30-53"><a href="#cb30-53" aria-hidden="true" tabindex="-1"></a>  ) <span class="sc">+</span></span>
-<span id="cb30-54"><a href="#cb30-54" aria-hidden="true" tabindex="-1"></a>  <span class="fu">theme</span>(</span>
-<span id="cb30-55"><a href="#cb30-55" aria-hidden="true" tabindex="-1"></a>    <span class="at">axis.title =</span> <span class="fu">element_text</span>(<span class="at">size =</span> <span class="dv">6</span>),</span>
-<span id="cb30-56"><a href="#cb30-56" aria-hidden="true" tabindex="-1"></a>    <span class="at">axis.text =</span> <span class="fu">element_text</span>(<span class="at">size =</span> <span class="dv">4</span>)</span>
-<span id="cb30-57"><a href="#cb30-57" aria-hidden="true" tabindex="-1"></a>  ) <span class="sc">+</span></span>
-<span id="cb30-58"><a href="#cb30-58" aria-hidden="true" tabindex="-1"></a>  <span class="fu">theme_bw</span>()</span>
-<span id="cb30-59"><a href="#cb30-59" aria-hidden="true" tabindex="-1"></a></span>
-<span id="cb30-60"><a href="#cb30-60" aria-hidden="true" tabindex="-1"></a><span class="fu">ggarrange</span>(p.cgf, p.ogf, p.csf, p.osf, <span class="at">nrow =</span> <span class="dv">2</span>, <span class="at">ncol =</span> <span class="dv">2</span>)</span></code><button title="Copy to Clipboard" class="code-copy-button"><i class="bi"></i></button></pre></div>
+<span id="cb30-37"><a href="#cb30-37" aria-hidden="true" tabindex="-1"></a>    <span class="at">title =</span> <span class="st">"SR Fit"</span></span>
+<span id="cb30-38"><a href="#cb30-38" aria-hidden="true" tabindex="-1"></a>  ) <span class="sc">+</span></span>
+<span id="cb30-39"><a href="#cb30-39" aria-hidden="true" tabindex="-1"></a>  <span class="fu">theme</span>(</span>
+<span id="cb30-40"><a href="#cb30-40" aria-hidden="true" tabindex="-1"></a>    <span class="at">axis.title =</span> <span class="fu">element_text</span>(<span class="at">size =</span> <span class="dv">6</span>),</span>
+<span id="cb30-41"><a href="#cb30-41" aria-hidden="true" tabindex="-1"></a>    <span class="at">axis.text =</span> <span class="fu">element_text</span>(<span class="at">size =</span> <span class="dv">4</span>)</span>
+<span id="cb30-42"><a href="#cb30-42" aria-hidden="true" tabindex="-1"></a>  ) <span class="sc">+</span></span>
+<span id="cb30-43"><a href="#cb30-43" aria-hidden="true" tabindex="-1"></a>  <span class="fu">theme_bw</span>()</span>
+<span id="cb30-44"><a href="#cb30-44" aria-hidden="true" tabindex="-1"></a></span>
+<span id="cb30-45"><a href="#cb30-45" aria-hidden="true" tabindex="-1"></a>b <span class="ot">&lt;-</span> <span class="fu">predict</span>(osr_f, <span class="at">newdata =</span> newdata, <span class="at">interval =</span> <span class="st">"confidence"</span>)</span>
+<span id="cb30-46"><a href="#cb30-46" aria-hidden="true" tabindex="-1"></a>preds <span class="ot">&lt;-</span> <span class="fu">cbind</span>(newdata, <span class="fu">as.data.frame</span>(b))</span>
+<span id="cb30-47"><a href="#cb30-47" aria-hidden="true" tabindex="-1"></a></span>
+<span id="cb30-48"><a href="#cb30-48" aria-hidden="true" tabindex="-1"></a>p.osf <span class="ot">&lt;-</span> <span class="fu">ggplot</span>(fitted_df, <span class="fu">aes</span>(<span class="at">x =</span> mean_age, <span class="at">y =</span> o_conT)) <span class="sc">+</span></span>
+<span id="cb30-49"><a href="#cb30-49" aria-hidden="true" tabindex="-1"></a>  <span class="fu">geom_line</span>(<span class="at">data =</span> preds, <span class="fu">aes</span>(<span class="at">y =</span> fit), <span class="at">color =</span> <span class="st">"red3"</span>, <span class="at">linewidth =</span> <span class="fl">1.2</span>) <span class="sc">+</span></span>
+<span id="cb30-50"><a href="#cb30-50" aria-hidden="true" tabindex="-1"></a>  <span class="fu">geom_point</span>(<span class="at">alpha =</span> <span class="fl">0.5</span>, <span class="at">size =</span> <span class="dv">1</span>) <span class="sc">+</span></span>
+<span id="cb30-51"><a href="#cb30-51" aria-hidden="true" tabindex="-1"></a>  <span class="fu">labs</span>(</span>
+<span id="cb30-52"><a href="#cb30-52" aria-hidden="true" tabindex="-1"></a>    <span class="at">x =</span> <span class="st">"Age"</span>,</span>
+<span id="cb30-53"><a href="#cb30-53" aria-hidden="true" tabindex="-1"></a>    <span class="at">y =</span> <span class="st">"Osteocalcin (ng/mL, SG-corrected)"</span>,</span>
+<span id="cb30-54"><a href="#cb30-54" aria-hidden="true" tabindex="-1"></a>    <span class="at">title =</span> <span class="st">"SR Fit"</span></span>
+<span id="cb30-55"><a href="#cb30-55" aria-hidden="true" tabindex="-1"></a>  ) <span class="sc">+</span></span>
+<span id="cb30-56"><a href="#cb30-56" aria-hidden="true" tabindex="-1"></a>  <span class="fu">theme</span>(</span>
+<span id="cb30-57"><a href="#cb30-57" aria-hidden="true" tabindex="-1"></a>    <span class="at">axis.title =</span> <span class="fu">element_text</span>(<span class="at">size =</span> <span class="dv">6</span>),</span>
+<span id="cb30-58"><a href="#cb30-58" aria-hidden="true" tabindex="-1"></a>    <span class="at">axis.text =</span> <span class="fu">element_text</span>(<span class="at">size =</span> <span class="dv">4</span>)</span>
+<span id="cb30-59"><a href="#cb30-59" aria-hidden="true" tabindex="-1"></a>  ) <span class="sc">+</span></span>
+<span id="cb30-60"><a href="#cb30-60" aria-hidden="true" tabindex="-1"></a>  <span class="fu">theme_bw</span>()</span>
+<span id="cb30-61"><a href="#cb30-61" aria-hidden="true" tabindex="-1"></a></span>
+<span id="cb30-62"><a href="#cb30-62" aria-hidden="true" tabindex="-1"></a><span class="fu">ggarrange</span>(p.cgf, p.ogf, p.csf, p.osf, <span class="at">nrow =</span> <span class="dv">2</span>, <span class="at">ncol =</span> <span class="dv">2</span>)</span></code><button title="Copy to Clipboard" class="code-copy-button"><i class="bi"></i></button></pre></div>
 </details>
 <div class="cell-output-display">
 <div>
@@ -660,6 +679,12 @@ OsteocalcinF  numeric,0</code></pre>
 </figure>
 </div>
 </div>
+</div>
+<div class="quarto-figure quarto-figure-left">
+<figure class="figure">
+<p><img src="img/figure3.png" class="img-fluid figure-img"></p>
+<figcaption>Biomarker levels in female chimpanzees. We transformed collagen and osteocalcin values to approximate a normal residual distribution. The solid blue lines (upper panels) represent the generalized additive models (GAMs) with confidence intervals as dashed lines; red lines (lower panels) represent segmented regression. Among female chimpanzees, GAMs suggest an incrementally lower turnover with age, but segmented regressions indicate a peak at 13 years for collagen and 7 years for osteocalcin.</figcaption>
+</figure>
 </div>
 </section>
 </section>
